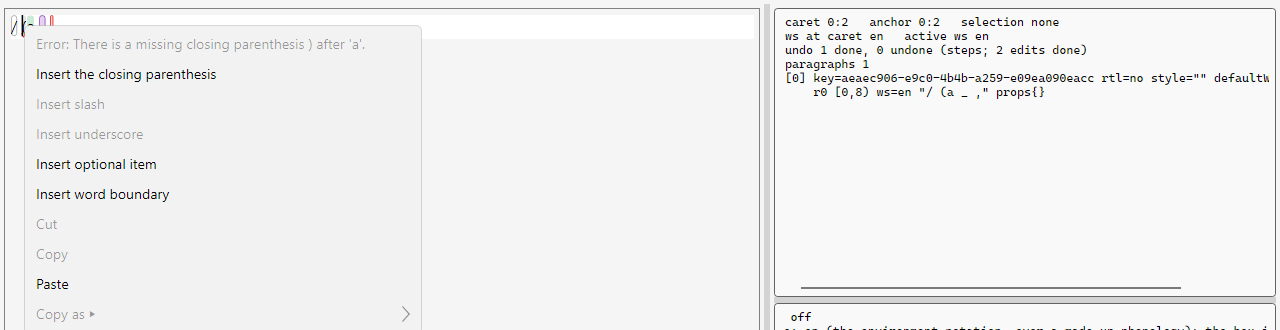
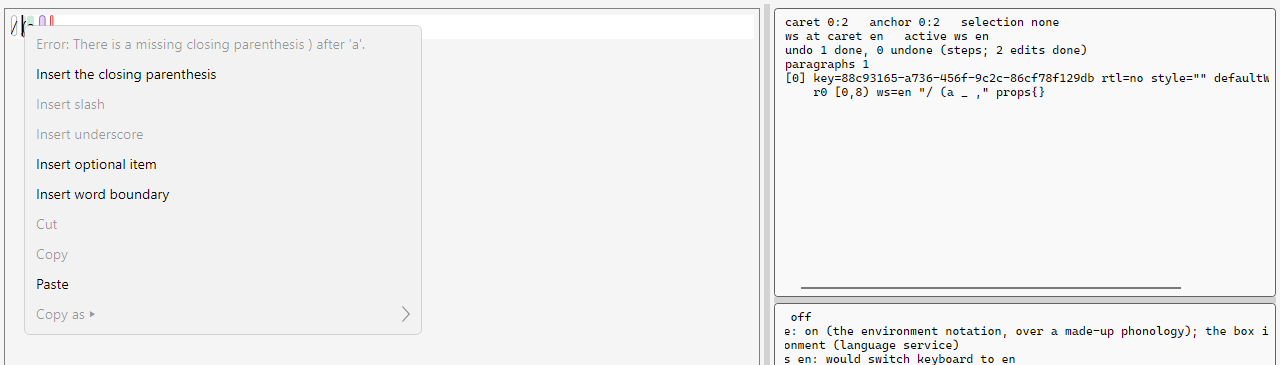
The host capture script owns the process id run.cmd reports and always closes it, and the generator is tidied.

diff --git a/tests/SIL.TextEditing.Playground.Tests/ScreenshotGenerator.cs b/tests/SIL.TextEditing.Playground.Tests/ScreenshotGenerator.cs
@@ -65,7 +65,7 @@ namespace SIL.TextEditing.Playground.Tests
                     using (var fb = cropped.Lock())
                         for (int y = 0; y < area.Height; y++)
                             Marshal.Copy(buffer, (area.Y + y) * stride + area.X * 4, fb.Address + y * fb.RowBytes, area.Width * 4);
-                    #if NET10_0_OR_GREATER
+#if NET10_0_OR_GREATER
                     cropped.Save(Path.Combine(OutDir(), name + ".png"), new PngBitmapEncoderOptions());
 #else
                     cropped.Save(Path.Combine(OutDir(), name + ".png"));
@@ -174,7 +174,7 @@ namespace SIL.TextEditing.Playground.Tests
                 Headless.Pump();
                 var at = s.PointAt(0, 2);
                 s.RightClick(at);
-                Save(s, "environment-fix-menu", FieldStrip(s, 330));
+                Save(s, "environment-fix-menu", FieldStrip(s, 365));
                 s.View.CloseContextMenu();
             }
         });
@@ -221,7 +221,8 @@ namespace SIL.TextEditing.Playground.Tests
                 s.Caret(0, 0);
                 s.Click(PlaygroundView.Names.Paste);
                 await s.WaitClipboard();
-                s.Caret(7, s.ParagraphText(7).Length);                Save(s, "block-features", From(s, s.Find<CheckBox>(PlaygroundView.Names.AllowTables), 330));
+                s.Caret(7, s.ParagraphText(7).Length);
+                Save(s, "block-features", From(s, s.Find<CheckBox>(PlaygroundView.Names.AllowTables), 330));
             }
         });
 
